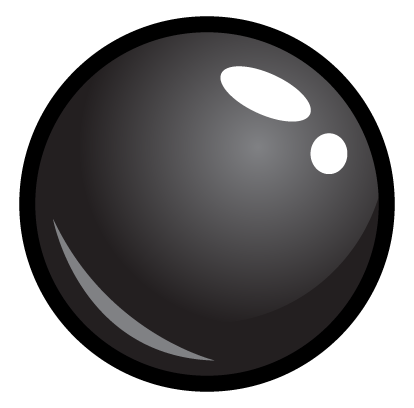
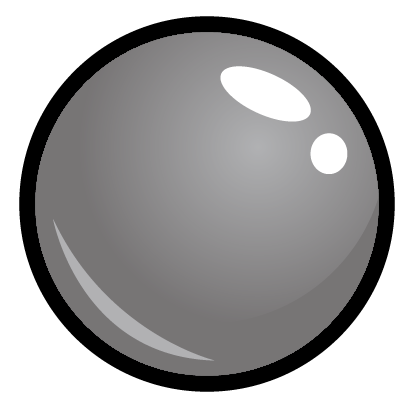
Lighten bullet color + add color onFire
Also slow down bullet and have a fixed rate

diff --git a/src/states/Game.js b/src/states/Game.js
@@ -54,9 +54,11 @@ export default class extends Phaser.State {
     this.weapon.height = 5
     this.weapon.width = 5
     this.weapon.bulletKillType = Phaser.Weapon.KILL_WORLD_BOUNDS;
-    this.weapon.bulletSpeed = 400;
+    this.weapon.fireRate = 250 // milliseconds
+    this.weapon.bulletSpeed = 300;
     this.weapon.bulletAngleOffset = 90;
     this.weapon.trackSprite(this.hero, 14, 0);
+    this.weapon.onFire.add(this.onWeaponFire, this)
     this.fireButton = this.input.keyboard.addKey(Phaser.KeyCode.SPACEBAR);
    
     let playerScale = .15;
@@ -76,12 +78,22 @@ export default class extends Phaser.State {
       this.game.debug.inputInfo(32, 32)
     }
 
+    let color = this.calculateColor()
+    this.preview.tint = color
+  }
+
+  calculateColor () {
     let color = Phaser.Color.getColor(
       255 * this.redBar.data.level / 4,
       255 * this.greenBar.data.level / 4,
       255 * this.blueBar.data.level / 4
     )
-    this.preview.tint = color
+    return color
+  }
+
+  onWeaponFire (bullet, weapon) {
+    let color = this.calculateColor()
+    bullet.tint = color
   }
 
   update () {
